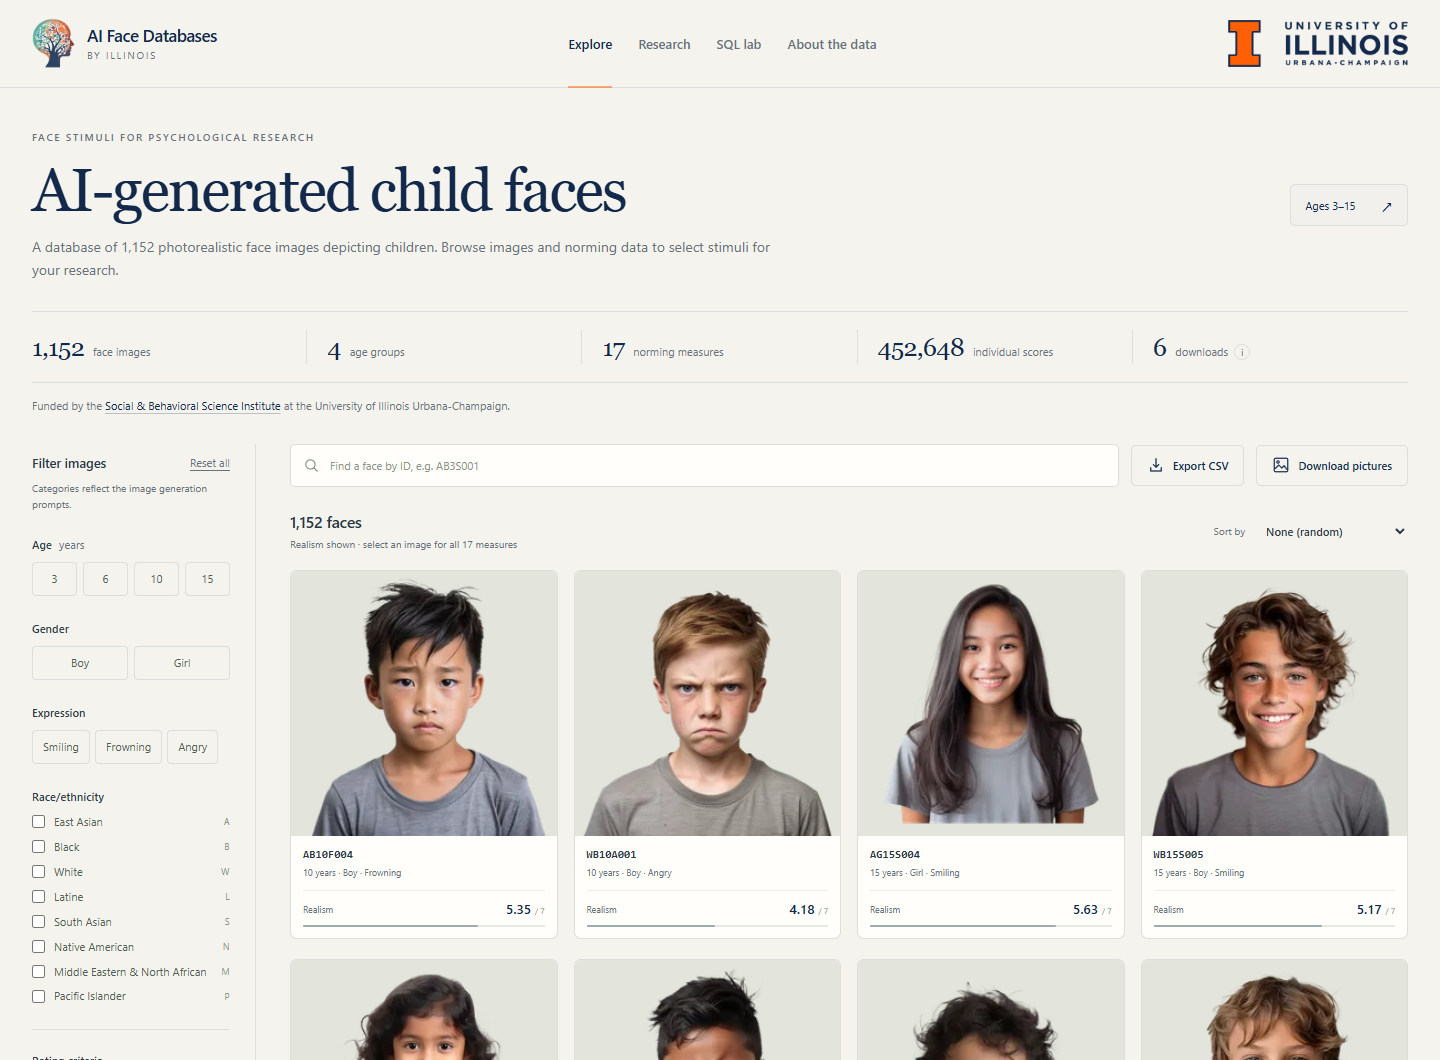
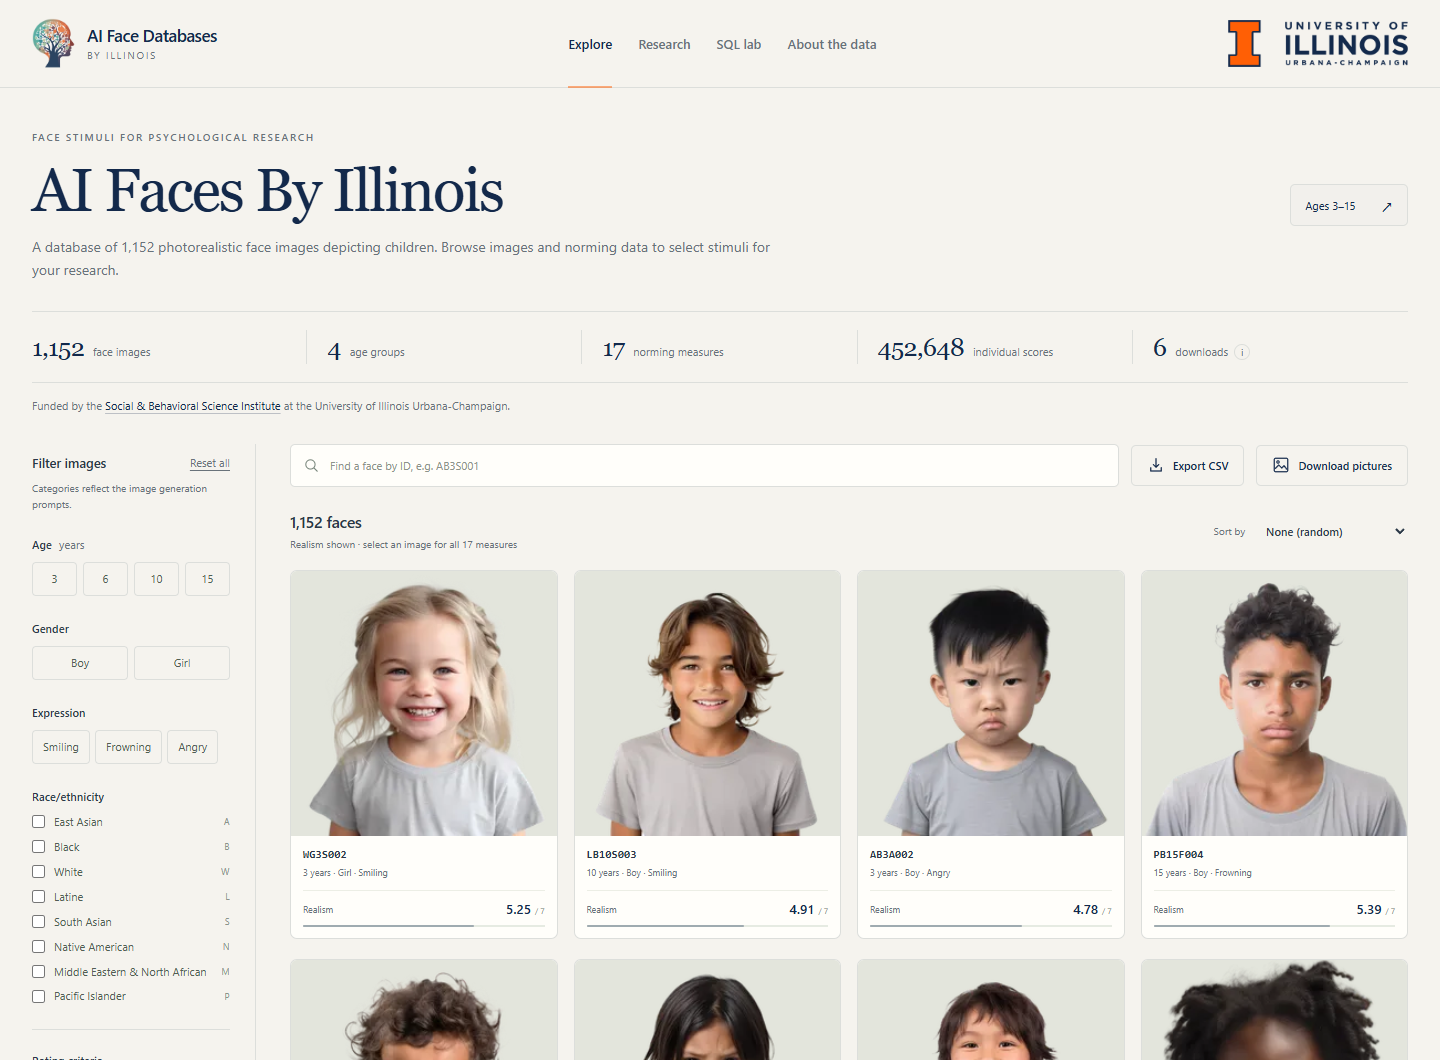
Update homepage title and copy references in APA format

diff --git a/docs/index.html b/docs/index.html
@@ -31,7 +31,7 @@
 
     <section id="view-explore" class="view" aria-labelledby="explore-title">
       <div class="collection-intro">
-        <div><p class="eyebrow">Face stimuli for psychological research</p><h1 id="explore-title">AI-generated child faces</h1><p class="intro-description">A database of 1,152 photorealistic face images depicting children. Browse images and norming data to select stimuli for your research.</p></div>
+        <div><p class="eyebrow">Face stimuli for psychological research</p><h1 id="explore-title">AI Faces By Illinois</h1><p class="intro-description">A database of 1,152 photorealistic face images depicting children. Browse images and norming data to select stimuli for your research.</p></div>
         <span class="outline-tag">Ages 3–15 <span aria-hidden="true">↗</span></span>
       </div>
       <div class="stats-strip" aria-label="Collection statistics">
@@ -82,9 +82,9 @@
           <p class="publication-journal"><cite>Behavior Research Methods</cite></p>
           <p class="publication-authors">T. W.-T. Chao · J. Mei · I. T. Shang · E. Macias · Z. Mkrtychian · D. Zhang · S. A. Oh · J. Serrano Rodriguez · B. C. Straka · M. T. Rizzo</p>
           <p class="publication-summary">The article describes the creation of the image database and the norming study. Adult participants rated the images’ perceived realness, niceness, wealthiness, age, emotional expression, gender, and race/ethnicity.</p>
-          <div class="publication-actions"><a class="button button-primary" href="https://doi.org/10.3758/s13428-026-03182-y" target="_blank" rel="noopener noreferrer">Article DOI <span aria-hidden="true">↗</span></a><button class="button button-light" type="button" id="copy-citation">Copy reference <span aria-hidden="true">⧉</span></button></div>
+          <div class="publication-actions"><a class="button button-primary" href="https://doi.org/10.3758/s13428-026-03182-y" target="_blank" rel="noopener noreferrer">Article DOI <span aria-hidden="true">↗</span></a><button class="button button-light" type="button" id="copy-citation">Copy APA reference <span aria-hidden="true">⧉</span></button></div>
           <p class="publication-note">DOI assigned; the publisher page will become available when the article is published.</p>
-          <details class="reference-details"><summary>Full reference</summary><p id="publication-reference">Chao, T. W.-T., Mei, J., Shang, I. T., Macias, E., Mkrtychian, Z., Zhang, D., Oh, S. A., Serrano Rodriguez, J., Straka, B. C., &amp; Rizzo, M. T. (in press). AI-Faces by Illinois: A database of AI-generated faces depicting children. <cite>Behavior Research Methods</cite>. https://doi.org/10.3758/s13428-026-03182-y</p></details>
+          <details class="reference-details"><summary>APA reference</summary><p id="publication-reference">Chao, T. W.-T., Mei, J., Shang, I. T., Macias, E., Mkrtychian, Z., Zhang, D., Oh, S. A., Serrano Rodriguez, J., Straka, B. C., &amp; Rizzo, M. T. (in press). AI-Faces by Illinois: A database of AI-generated faces depicting children. <cite>Behavior Research Methods</cite>. https://doi.org/10.3758/s13428-026-03182-y</p></details>
         </article>
         <aside class="lab-card" aria-labelledby="lab-title">
           <img class="lab-logo" src="assets/brand/deml-logo.png" alt="Developing Equitable Minds Lab logo: a branching tree within a child's profile" width="461" height="542">

diff --git a/docs/app.js b/docs/app.js
@@ -74,9 +74,29 @@ async function copyCitation(){
   const reference=$('#publication-reference');
   const text=reference.textContent.trim();
   try{
+    if(navigator.clipboard?.write&&window.ClipboardItem){
+      const formatted=document.createElement('p');
+      formatted.innerHTML=reference.innerHTML;
+      formatted.style.cssText='margin:0 0 0 0.5in;text-indent:-0.5in;line-height:2;';
+      formatted.querySelectorAll('cite').forEach(journal=>{
+        const italic=document.createElement('i');
+        italic.textContent=journal.textContent;
+        journal.replaceWith(italic);
+      });
+      try{
+        await navigator.clipboard.write([new ClipboardItem({
+          'text/plain':new Blob([text],{type:'text/plain'}),
+          'text/html':new Blob([formatted.outerHTML],{type:'text/html'})
+        })]);
+        toast('APA reference copied.');
+        return;
+      }catch{
+        // Some browsers allow plain-text copying but reject rich clipboard data.
+      }
+    }
     if(!navigator.clipboard?.writeText)throw new Error('Clipboard unavailable');
     await navigator.clipboard.writeText(text);
-    toast('Reference copied.');
+    toast('APA reference copied as plain text.');
   }catch{
     $('.reference-details').open=true;
     const selection=window.getSelection();
@@ -85,7 +105,7 @@ async function copyCitation(){
     selection.removeAllRanges();
     selection.addRange(range);
     reference.scrollIntoView({block:'nearest'});
-    toast('Reference selected. Press Ctrl / Command + C to copy.');
+    toast('APA reference selected. Press Ctrl / Command + C to copy.');
   }
 }
 function navigate(){
